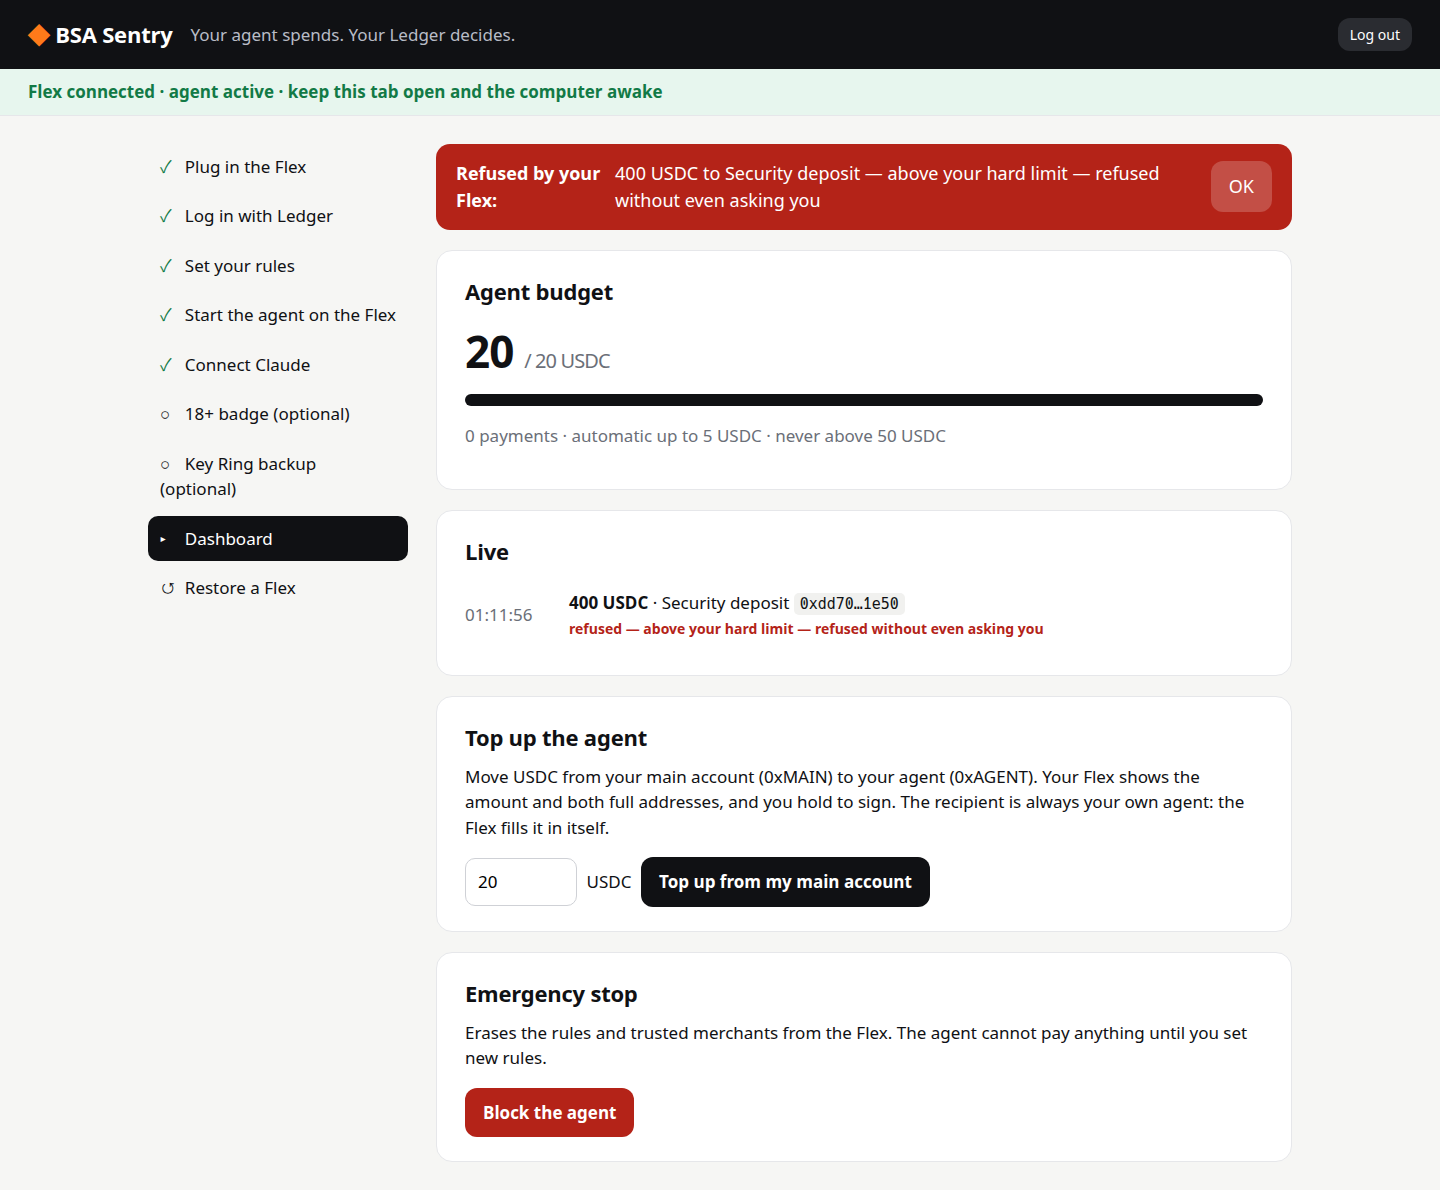
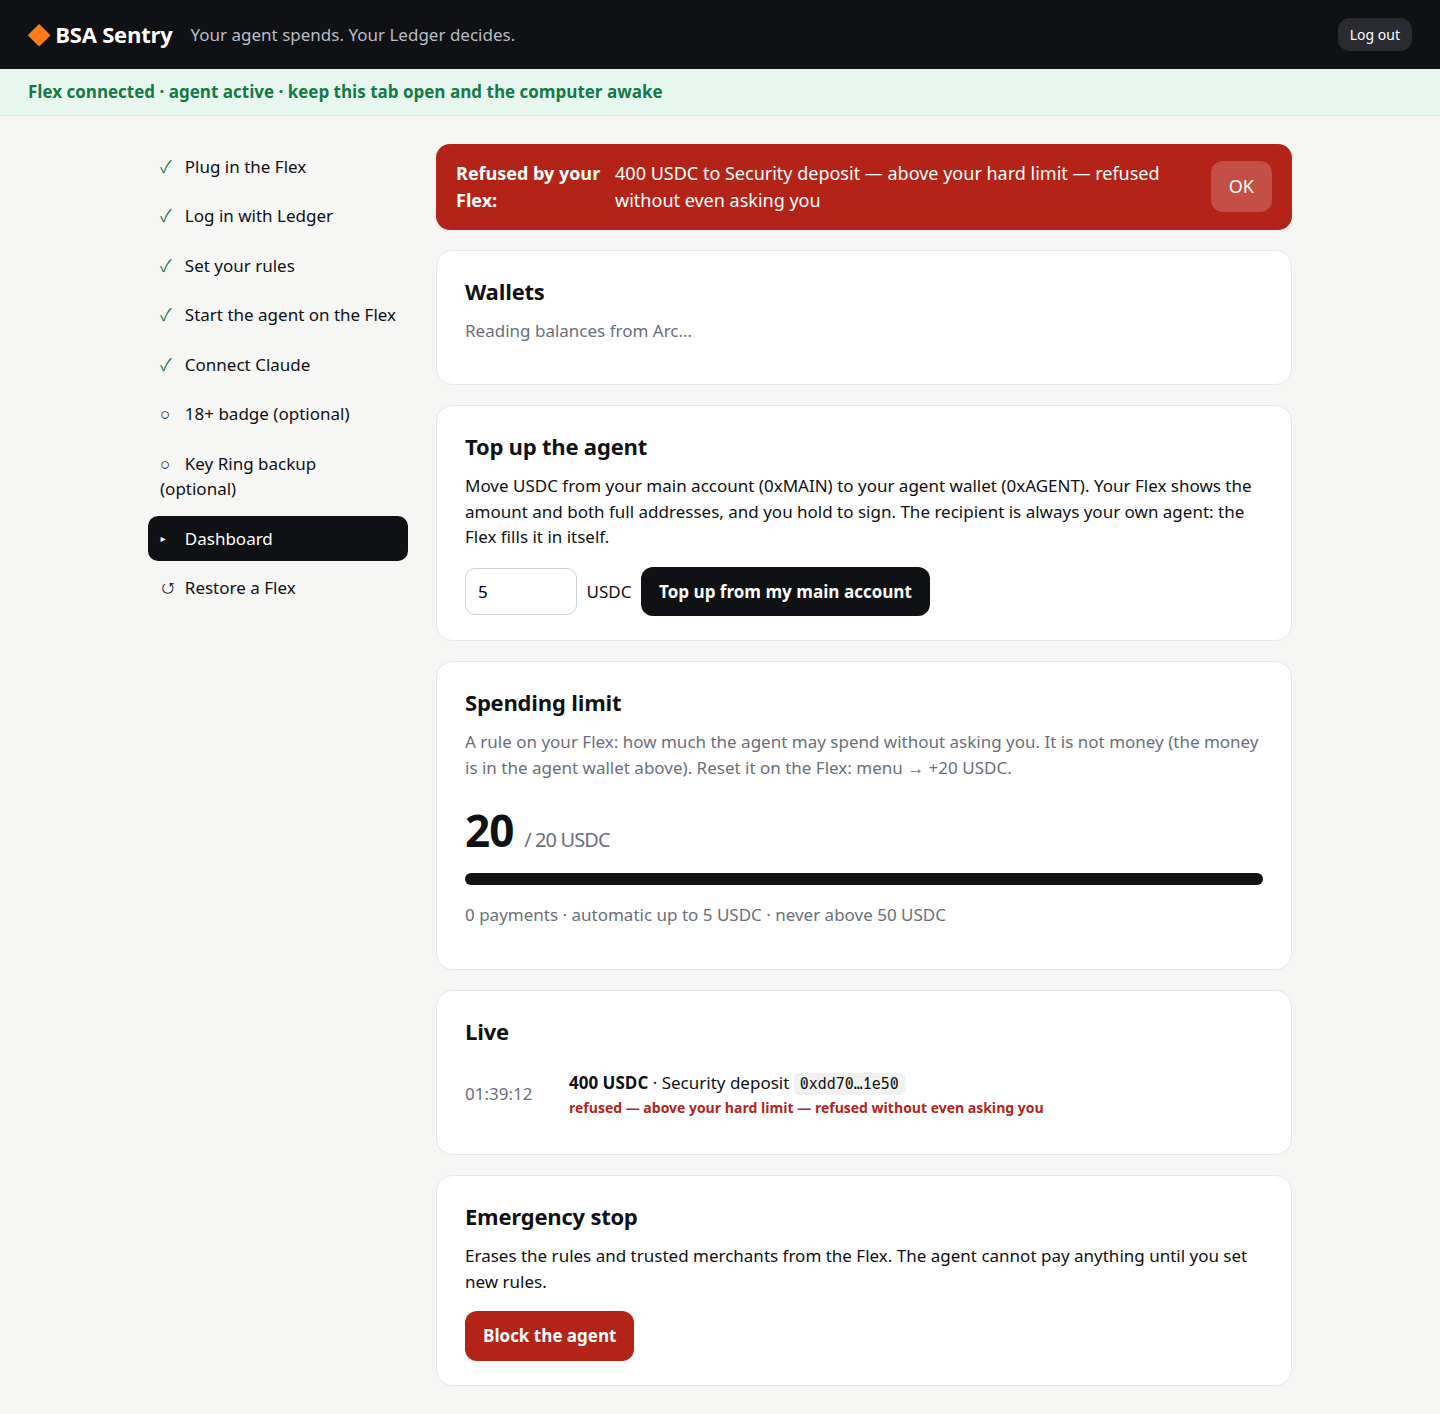
Dashboard: real wallet balances from Arc, 'Spending limit' explained, top-up under the wallets
GET /topup/wallets reads both USDC balances (the Flex has no network).
The budget is now called what it is, a spending limit rule, with a line
saying it is not money.

Changed region(s): [[0.0, 0.0, 1.0, 0.4975], [0.3125, 0.4664, 0.875, 0.9639]]

diff --git a/apps/web/src/pages/Dashboard.tsx b/apps/web/src/pages/Dashboard.tsx
@@ -1,4 +1,4 @@
-import { useState } from 'react';
+import { useCallback, useEffect, useState } from 'react';
 import type { Bsa } from '../useBsa.js';
 import { shortAddr, time, usdc } from '../format.js';
 
@@ -23,6 +23,13 @@ export function Dashboard({ bsa }: { bsa: Bsa }) {
   const p = d?.policy;
   const left = p ? (p.budget > d!.spent ? p.budget - d!.spent : 0n) : 0n;
   const pct = p && p.budget > 0n ? Number((left * 1000n) / p.budget) / 10 : 0;
+  const [wallets, setWallets] = useState<WalletsInfo | null>(null);
+  const loadWallets = useCallback(async () => {
+    const r = await fetch('/topup/wallets', { credentials: 'same-origin' }).catch(() => null);
+    if (r?.ok) setWallets(await r.json());
+  }, []);
+  // Re-read after anything that can move money: a payment settling, the device state changing.
+  useEffect(() => { if (bsa.account) void loadWallets(); }, [bsa.account, bsa.feed.items.length, d?.spent, loadWallets]);
 
   return (
     <>
@@ -32,8 +39,11 @@ export function Dashboard({ bsa }: { bsa: Bsa }) {
           <button className="ghost" onClick={bsa.dismissBanner}>OK</button>
         </div>
       )}
+      <Wallets bsa={bsa} wallets={wallets} />
+      <TopUp bsa={bsa} mainUsdc={wallets?.main.usdc} onDone={() => void loadWallets()} />
       <section className="card budget">
-        <h2>Agent budget</h2>
+        <h2>Spending limit</h2>
+        <p className="muted">A rule on your Flex: how much the agent may spend without asking you. It is not money (the money is in the agent wallet above). Reset it on the Flex: menu → +20 USDC.</p>
         {p?.active ? (
           <>
             <div className="big" data-testid="budget-left">{usdc(left)} <small>/ {usdc(p.budget)} USDC</small></div>
@@ -62,7 +72,6 @@ export function Dashboard({ bsa }: { bsa: Bsa }) {
         )}
       </section>
 
-      <TopUp bsa={bsa} />
       <section className="card">
         <h2>Emergency stop</h2>
         <p>Erases the rules and trusted merchants from the Flex. The agent cannot pay anything until you set new rules.</p>
@@ -73,21 +82,45 @@ export function Dashboard({ bsa }: { bsa: Bsa }) {
 }
 
 /** Moves USDC from the user's main account to the agent. The Flex picks the recipient itself. */
-function TopUp({ bsa }: { bsa: Bsa }) {
-  const [amount, setAmount] = useState('20');
+function TopUp({ bsa, mainUsdc, onDone }: { bsa: Bsa; mainUsdc?: string; onDone: () => void }) {
+  const [amount, setAmount] = useState('5');
   const [done, setDone] = useState<{ txHash: string; amount: string } | null>(null);
   return (
     <section className="card">
       <h2>Top up the agent</h2>
-      <p>Move USDC from your main account (0xMAIN) to your agent (0xAGENT). Your Flex shows the amount and both full addresses, and you hold to sign. The recipient is always your own agent: the Flex fills it in itself.</p>
+      <p>Move USDC from your main account (0xMAIN) to your agent wallet (0xAGENT). Your Flex shows the amount and both full addresses, and you hold to sign. The recipient is always your own agent: the Flex fills it in itself.{mainUsdc !== undefined && <> Your main account holds <b>{mainUsdc} USDC</b>.</>}</p>
       <div className="topup">
         <input value={amount} onChange={(e) => setAmount(e.target.value)} inputMode="decimal" aria-label="Amount in USDC" data-testid="topup-amount" /> USDC
-        <button className="primary" disabled={!bsa.signer || !!bsa.busy} onClick={async () => { setDone(null); const r = await bsa.topUp(amount); if (r) setDone(r); }} data-testid="topup">Top up from my main account</button>
+        <button className="primary" disabled={!bsa.signer || !!bsa.busy} onClick={async () => { setDone(null); const r = await bsa.topUp(amount); if (r) { setDone(r); onDone(); } }} data-testid="topup">Top up from my main account</button>
       </div>
       {done && (
         <p className="ok" data-testid="topup-done">
           Topped up {done.amount} USDC{bsa.config && <> · <a href={`${bsa.config.explorer}/tx/${done.txHash}`} target="_blank" rel="noreferrer">view on Arc ↗</a></>}
         </p>
+      )}
+    </section>
+  );
+}
+
+type WalletsInfo = { main: { address: string; usdc: string }; agent: { address: string; usdc: string } | null };
+
+/** The real money, read from Arc by the server: the Flex has no network to show it. */
+function Wallets({ bsa, wallets }: { bsa: Bsa; wallets: WalletsInfo | null }) {
+  const link = (a: string) => bsa.config && <a href={`${bsa.config.explorer}/address/${a}`} target="_blank" rel="noreferrer">view on Arc ↗</a>;
+  return (
+    <section className="card wallets">
+      <h2>Wallets</h2>
+      {!wallets ? <p className="muted">Reading balances from Arc…</p> : (
+        <dl className="wallet-list">
+          <dt>Agent wallet (0xAGENT) — what Claude can spend</dt>
+          <dd>
+            {wallets.agent
+              ? <><b data-testid="agent-balance">{wallets.agent.usdc} USDC</b> <code>{shortAddr(wallets.agent.address)}</code> {link(wallets.agent.address)}</>
+              : <span className="muted">connect your Flex to see it</span>}
+          </dd>
+          <dt>Main account (0xMAIN) — yours</dt>
+          <dd><b data-testid="main-balance">{wallets.main.usdc} USDC</b> <code>{shortAddr(wallets.main.address)}</code> {link(wallets.main.address)}</dd>
+        </dl>
       )}
     </section>
   );

diff --git a/apps/server/test/topup.test.ts b/apps/server/test/topup.test.ts
@@ -96,3 +96,28 @@ describe('POST /topup', () => {
     expect(r.status).toBe(502);
   });
 });
+
+describe('GET /topup/wallets', () => {
+  it('needs a Ledger login', async () => {
+    const { app } = setup();
+    expect((await request(app).get('/topup/wallets')).status).toBe(401);
+  });
+
+  it('returns the real USDC balances of the main account and the agent wallet', async () => {
+    const { app, deps } = setup();
+    deps.reads.balanceOf.mockImplementation(async (a: string) => (a.toLowerCase() === AGENT ? 56_490_000n : 5_000_000n));
+    const r = await request(app).get('/topup/wallets').set('Cookie', cookie());
+    expect(r.status).toBe(200);
+    expect(r.body).toEqual({
+      main: { address: main.address.toLowerCase(), usdc: '5' },
+      agent: { address: AGENT, usdc: '56.49' },
+    });
+  });
+
+  it('still returns the main account when the tab has not reported the agent yet', async () => {
+    const { app } = setup({ agent: undefined });
+    const r = await request(app).get('/topup/wallets').set('Cookie', cookie());
+    expect(r.body.agent).toBeNull();
+    expect(r.body.main.usdc).toBe('50');
+  });
+});

diff --git a/apps/server/src/topup.ts b/apps/server/src/topup.ts
@@ -24,6 +24,22 @@ export function topupRouter(o: { secret: string; now?: () => number; deps: Settl
   const router = safeRouter();
   router.use(express.json({ limit: '8kb' }));
 
+  // The real USDC balances, read from the chain: the Flex has no network, so this is the only
+  // place the user can see how much money the agent actually holds.
+  router.get('/wallets', async (req, res) => {
+    const account = readSession(req, o.secret, now);
+    if (!account) return res.status(401).json({ error: 'log in with Ledger first' });
+    const agent = o.agentOf(account)?.toLowerCase();
+    const [m, a] = await Promise.all([
+      o.deps.reads.balanceOf(account as Hex),
+      agent ? o.deps.reads.balanceOf(agent as Hex) : Promise.resolve(null),
+    ]);
+    res.json({
+      main: { address: account.toLowerCase(), usdc: usdc(m) },
+      agent: agent && a !== null ? { address: agent, usdc: usdc(a) } : null,
+    });
+  });
+
   router.post('/', async (req, res) => {
     const account = readSession(req, o.secret, now);
     if (!account) return res.status(401).json({ error: 'log in with Ledger first' });

diff --git a/apps/web/e2e/onboarding.spec.ts b/apps/web/e2e/onboarding.spec.ts
@@ -100,6 +100,8 @@ test('onboarding, then the dashboard follows what the agent does', async ({ page
   await page.goto(`${web}/?fakeDevice=1#/dashboard`);
   await expect(page.getByTestId('budget-left')).toContainText('20');
   await expect(page.getByTestId('topup')).toBeVisible();
+  await expect(page.getByRole('heading', { name: 'Wallets' })).toBeVisible();
+  await expect(page.getByRole('heading', { name: 'Spending limit' })).toBeVisible();
   const account = (await page.evaluate(() => fetch('/auth/me').then((r) => r.json()))).account as string;
 
   // The prompt-injection deposit: the device refuses it, the banner says why.

diff --git a/apps/web/src/styles.css b/apps/web/src/styles.css
@@ -103,3 +103,6 @@ ul.grants li { display: flex; justify-content: space-between; align-items: cente
 
 .topup { display: flex; align-items: center; gap: 0.6rem; flex-wrap: wrap; }
 .topup input { width: 7rem; }
+.wallet-list dt { margin-top: 0.6rem; color: #555; font-size: 0.9rem; }
+.wallet-list dd { margin: 0.2rem 0 0; display: flex; gap: 0.6rem; align-items: baseline; flex-wrap: wrap; }
+.wallet-list dd b { font-size: 1.3rem; }
